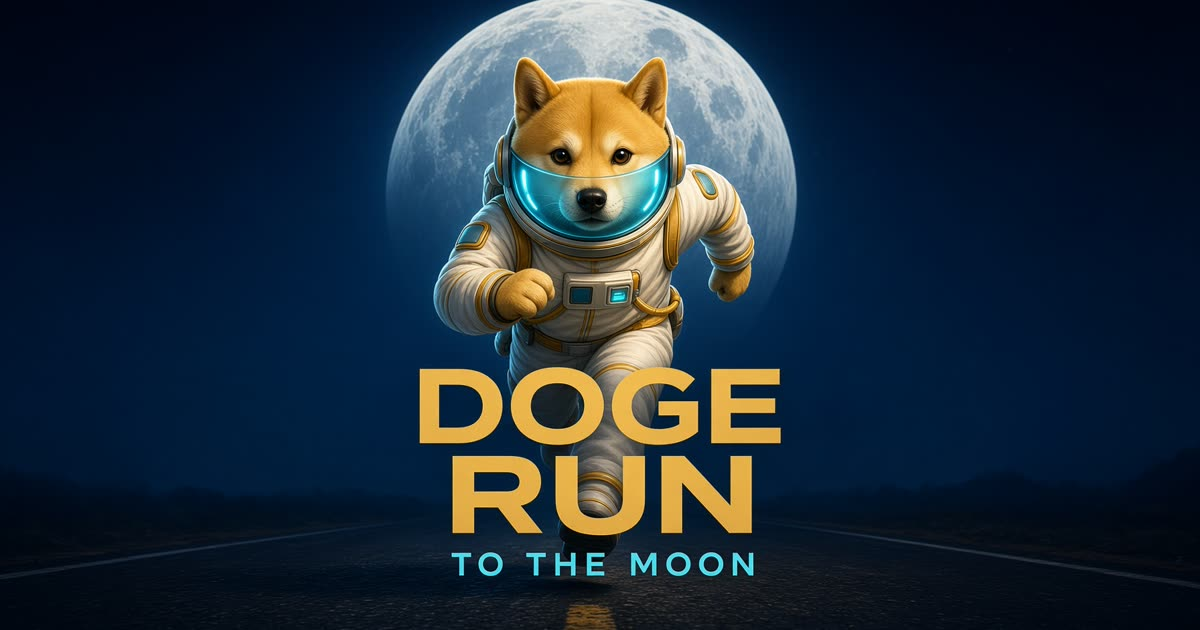
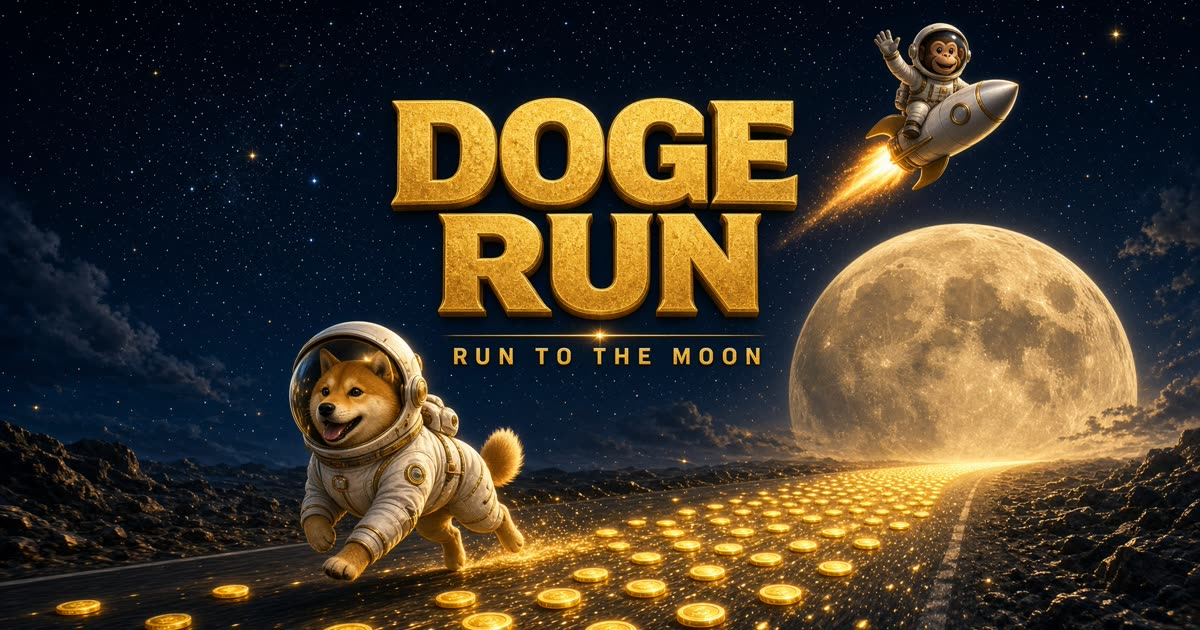
ad image

diff --git a/src/routes/__root.tsx b/src/routes/__root.tsx
@@ -25,8 +25,19 @@ export const Route = createRootRoute({
       { charSet: "utf-8" },
       { name: "viewport", content: "width=device-width, initial-scale=1" },
       { title: APP_NAME },
-      { name: "description", content: "Endless night run. A doge in a space suit jumps the road and heads for the moon." },
+      { name: "description", content: "A golden doge in a space suit runs a coin road to the moon." },
       { name: "theme-color", content: "#070b18" },
+      { property: "og:title", content: APP_NAME },
+      { property: "og:description", content: "A golden doge in a space suit runs a coin road to the moon." },
+      { property: "og:type", content: "x:game" },
+      { property: "og:url", content: "https://dogerunlotis.xyz/" },
+      { property: "og:image", content: "https://dogerunlotis.xyz/og.jpg?v=3" },
+      { property: "og:image:width", content: "1200" },
+      { property: "og:image:height", content: "630" },
+      { name: "twitter:card", content: "summary_large_image" },
+      { name: "twitter:title", content: APP_NAME },
+      { name: "twitter:description", content: "A golden doge in a space suit runs a coin road to the moon." },
+      { name: "twitter:image", content: "https://dogerunlotis.xyz/og.jpg?v=3" },
     ],
     links: [
       { rel: "icon", type: "image/svg+xml", href: "/favicon.svg" },
